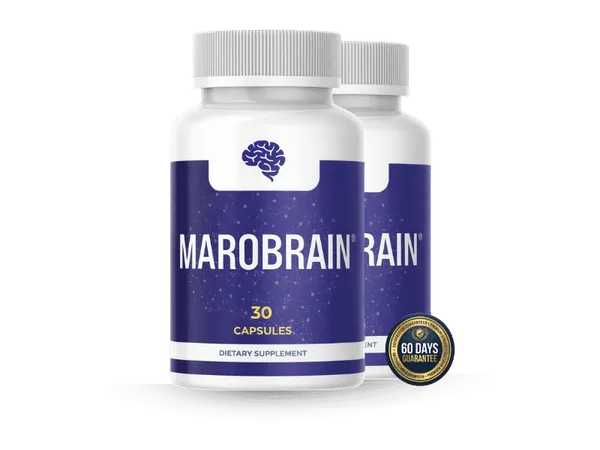
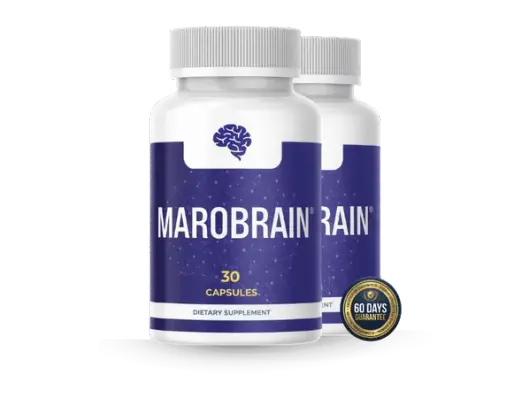
perf: inline CSS completo, corrigir LCP e reduzir imagens
- Removido assets/styles.css externo (causa CLS 0.102 e TBT alto)
- Todo CSS agora inline no <head> — zero reflow, zero layout shift
- ADV-PORTAIS.webp: removido loading=lazy, adicionado fetchpriority=high
- Preload corrigido para a imagem LCP real (ADV-PORTAIS.webp)
- Garrafas regeadas em 530x398 (era 600x450): -30% tamanho

diff --git a/index.html b/index.html
@@ -27,14 +27,46 @@
     .vsl-placeholder small{font-size:12px;opacity:.55}
   </style>
 
-  <!-- CSS completo — carregado de forma não-bloqueante -->
-  <link rel="stylesheet" href="assets/styles.css" media="print" onload="this.media='all'">
-  <noscript><link rel="stylesheet" href="assets/styles.css"></noscript>
-
-  <!-- Preload LCP image (6 bottles — best value, exibida primeiro no mobile) -->
-  <link rel="preload" as="image" href="assets/img/6b.webp">
+  <!-- Preload LCP image -->
+  <link rel="preload" as="image" href="assets/img/ADV-PORTAIS.webp">
   <link rel="preconnect" href="https://buygoods.com">
   <link rel="dns-prefetch" href="https://buygoods.com">
+
+  <!-- CSS completo inline — zero CSS externo, zero CLS, zero reflow -->
+  <style>
+    .img_adv{width:80%;max-width:500px;height:auto;margin:20px auto 0}
+    @media(max-width:996px){.red-header h1{font-size:1.7rem}.img_adv{width:90%;max-width:380px}}
+    .stock-ticker{background-color:#D41212;color:#fff;overflow:hidden;white-space:nowrap;padding:8px 0;font-size:1.4rem;font-weight:700;text-transform:uppercase;text-align:center;margin:12px 0 0}
+    .ticker-track{display:inline-flex;animation:tickerScroll 30s linear infinite}
+    .ticker-track strong{display:inline-block;padding-right:3rem}
+    .counter_left{display:inline-block;font-weight:900}
+    @keyframes tickerScroll{0%{transform:translateX(0)}100%{transform:translateX(-50%)}}
+    #fb-comments{font-family:"Segoe UI Historic","Segoe UI",Helvetica,Arial,sans-serif;font-size:13px;width:100%;margin:24px auto 0}
+    #fb-comments .fb-heading{margin:2.125em 0 .625em;font-size:1.1em;color:#555;font-weight:400;text-align:left}
+    .comments-container{display:flex;flex-direction:column;gap:1.25em;border:1px solid #e9ebee;border-radius:1.25em;padding:1.25em 1.25em 0}
+    .comment{display:flex;align-items:flex-start;position:relative;width:100%;gap:.625em}
+    .comment.answer{margin-left:3.625em;max-width:calc(100% - 3.625em);margin-bottom:.75em}
+    .comment.answer+.answer{margin-top:-.75em}
+    .user-avatar{width:3em;height:3em;border-radius:50%;object-fit:cover;flex-shrink:0}
+    .comment-data{width:100%}
+    .comment-data .user{display:inline-block;font-weight:400;color:#050505;border-radius:.75em;background-color:#f0f2f5;padding:.375em .75em .75em;max-width:100%}
+    .comment-data .user .name{display:block;margin:0;color:#365899;font-weight:700;font-size:14px;cursor:pointer;text-align:left}
+    .comment-data .user .text{margin:0;font-size:14px;color:#050505;text-align:left;line-height:1.45}
+    .comment-data .buttons{margin:.125em 0 0 .75em;display:flex;align-items:center;gap:.3125em}
+    .comment-data .buttons time,.comment-data .buttons like,.comment-data .buttons answer,.comment-data .buttons span{font-size:.8em;color:#888;user-select:none}
+    .comment-data .buttons like,.comment-data .buttons answer{font-weight:600;cursor:pointer}
+    .comment-data .buttons like:hover{color:#365899}
+    .comment-data .buttons answer{cursor:default;position:relative}
+    .comment-data .buttons answer:hover::after{content:"You cannot comment on this post";position:absolute;left:50%;top:-.625em;width:11.25em;background-color:#f0f2f5;color:#4c4c4c;transform:translate(-50%,-100%);z-index:10;border-radius:.25em;padding:.375em;text-align:center;font-weight:400;box-shadow:2px 2px 8px 2px rgba(0,0,0,.18)}
+    .comment likes{position:absolute;bottom:-.625em;right:0;background-color:#fff;border:2px solid #eaebef;display:flex;align-items:center;font-size:.875em;line-height:1;color:#888;border-radius:100px;padding:2px 6px 2px 4px;gap:2px;white-space:nowrap}
+    .comment likes::before{content:"👍";font-size:.9em}
+    @media(min-width:576px){#fb-comments{font-size:16px}.comment likes{bottom:0}}
+    .comments-closed{font-size:.875em;font-weight:600;text-align:center;margin:.9375em 0 5px;color:#555}
+    footer{background-color:#A70C0C;padding:15px 0 0;text-align:center}
+    footer a{color:#fff;text-decoration:none;display:inline-block;padding:10px 25px;font-weight:500}
+    footer p{background-color:#000;color:#fff;font-size:17px;padding:10px 25px;margin-top:10px}
+    @media(prefers-reduced-motion:reduce){.ticker-track{animation:none!important}}
+  </style>
 
   <style>
     /* ═══════════════════════════════════════════════════
@@ -345,7 +377,7 @@
            class="img_adv"
            alt="As seen on CBS, ABC, FOX, CNN and more"
            width="750" height="123"
-           loading="lazy" decoding="async">
+           fetchpriority="high" decoding="async">
     </div>
 
     <!-- ══════════════════════════════════════════════
@@ -396,7 +428,7 @@
                 </div>
                 <div class="maro-inner">
                   <img src="assets/img/2b.webp"
-                       class="maro-img mb-3" alt="2 Bottles" loading="lazy" decoding="async" width="300" height="225">
+                       class="maro-img mb-3" alt="2 Bottles" loading="lazy" decoding="async" width="530" height="398">
                   <div class="maro-price">
                     <p class="price-val mb-0">$89<span class="per-bottle">PER<br>BOTTLE</span></p>
                   </div>
@@ -440,7 +472,7 @@
                   <h3 class="mb-0" style="color:#fff!important;font-size:1.6em;font-weight:800;">6 BOTTLES</h3>
                   <p class="mb-0" style="color:#fff!important;font-size:1em;font-weight:600;">180 DAYS SUPPLY</p>
                   <img src="assets/img/6b.webp"
-                       class="maro-img mb-3" alt="6 Bottles" fetchpriority="high" decoding="async" width="300" height="225">
+                       class="maro-img mb-3" alt="6 Bottles" fetchpriority="high" decoding="async" width="530" height="398">
                   <div class="maro-price">
                     <p class="price-val mb-0" style="color:#fff!important;">$49<span class="per-bottle" style="color:#fff!important;">PER<br>BOTTLE</span></p>
                   </div>
@@ -491,7 +523,7 @@
                 </div>
                 <div class="maro-inner">
                   <img src="assets/img/3b.webp"
-                       class="maro-img mb-3" alt="3 Bottles" loading="lazy" decoding="async" width="300" height="225">
+                       class="maro-img mb-3" alt="3 Bottles" loading="lazy" decoding="async" width="530" height="398">
                   <div class="maro-price">
                     <p class="price-val mb-0">$72<span class="per-bottle">PER<br>BOTTLE</span></p>
                   </div>
